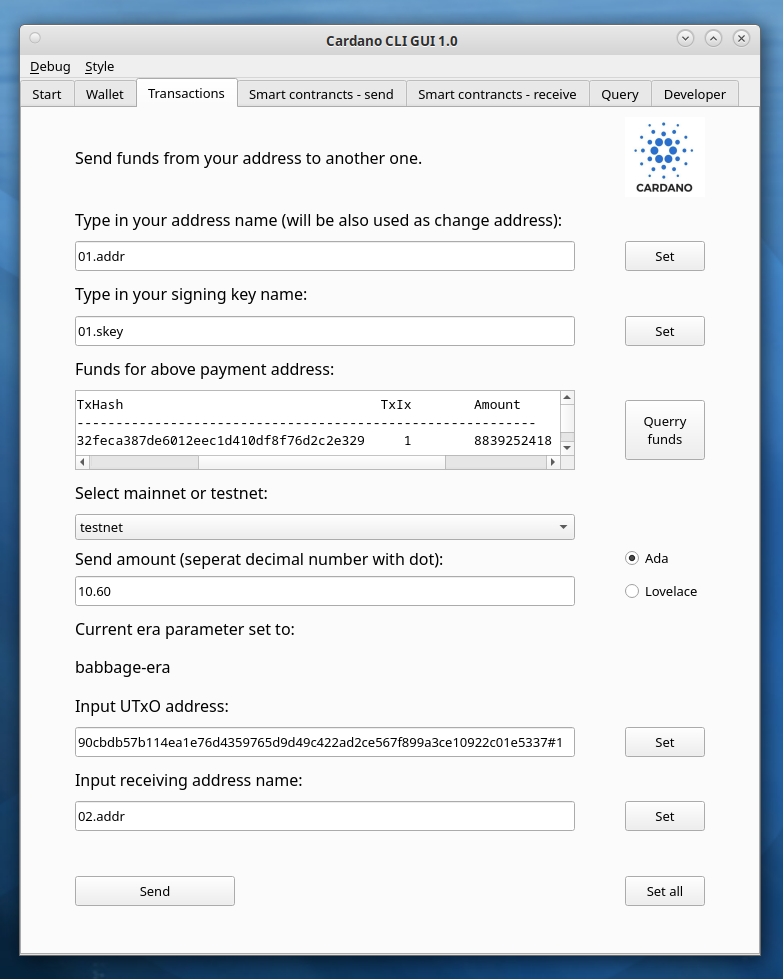
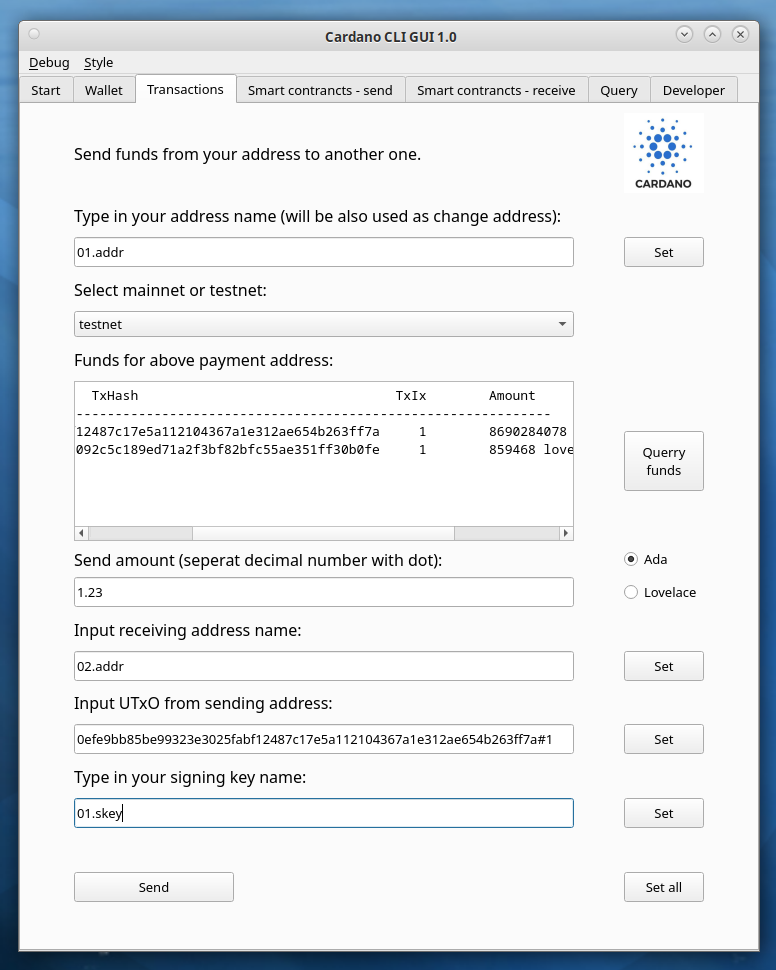
Updating transaction tab code and image. Small fix for query tab.

diff --git a/py-files/transactions.py b/py-files/transactions.py
@@ -39,65 +39,61 @@ class Transactions(QWidget):
         self.label_1_0 = QLabel("Type in your address name (will be also used as change address):")
         self.input_2_0 = QLineEdit()
         self.button_2_1 = QPushButton("Set")
-        self.label_3_0 = QLabel("Type in your signing key name:")
-        self.input_4_0 = QLineEdit()
-        self.button_4_1 = QPushButton("Set")
+        self.label_3_0 = QLabel("Select mainnet or testnet:")
+        self.comboBox_4_0 = QComboBox()
         self.label_5_0 = QLabel("Funds for above payment address:")
         self.input_6_0 = QPlainTextEdit()
         self.button_6_1 = QPushButton("Querry\nfunds")
-        self.label_7_0 = QLabel("Select mainnet or testnet:")
-        self.comboBox_8_0 = QComboBox()
 
         # Widget actions for payment address section
         self.button_2_1.clicked.connect(self.set_address_name)
-        self.button_4_1.clicked.connect(self.set_skey_name)
         self.button_6_1.clicked.connect(self.querry_address_funds)
-
-        self.comboBox_8_0.addItems(["", "mainnet", "testnet"])
-        self.comboBox_8_0.currentTextChanged.connect(self.set_net)
+        self.comboBox_4_0.addItems(["", "mainnet", "testnet"])
+        self.comboBox_4_0.currentTextChanged.connect(self.set_net)
 
         # Widgets for sending funds section 
-        self.label_9_0 = QLabel("Send amount (seperat decimal number with dot):")
-        self.radioButton_9_1 = QRadioButton("Ada")
+        self.label_7_0 = QLabel("Send amount (seperat decimal number with dot):")
+        self.radioButton_7_1 = QRadioButton("Ada")
+        self.input_8_0 = QLineEdit()
+        self.radioButton_8_1 = QRadioButton("Lovelace")
+        self.label_9_0 = QLabel("Input receiving address name:")
         self.input_10_0 = QLineEdit()
-        self.radioButton_10_1 = QRadioButton("Lovelace")
-        self.label_11_0 = QLabel("Current era parameter set to:")
-        self.label_12_0 = QLabel(settings.current_era)
-        self.label_13_0 = QLabel("Input UTxO address:")
+        self.button_10_1 = QPushButton("Set")
+        self.label_11_0 = QLabel("Input UTxO from sending address:")
+        self.input_12_0 = QLineEdit()
+        self.button_12_1 = QPushButton("Set")
+        self.label_13_0 = QLabel("Type in your signing key name:")
         self.input_14_0 = QLineEdit()
         self.button_14_1 = QPushButton("Set")
-        self.label_15_0 = QLabel("Input receiving address name:")
-        self.input_16_0 = QLineEdit()
-        self.button_16_1 = QPushButton("Set")
-        self.button_18_0 = QPushButton("Send")
-        self.button_18_1 = QPushButton("Set all")
+        self.button_16_0 = QPushButton("Send")
+        self.button_16_1 = QPushButton("Set all")
 
         # Widget actions for sending funds section 
-        self.button_14_1.clicked.connect(self.set_utxo)
-        self.button_16_1.clicked.connect(self.set_receiving_address)
-        self.button_18_0.clicked.connect(self.send_funds)
-        self.button_18_1.clicked.connect(self.set_all)
+        self.button_10_1.clicked.connect(self.set_receiving_address)
+        self.button_12_1.clicked.connect(self.set_utxo)
+        self.button_14_1.clicked.connect(self.set_skey_name)
+        self.button_16_0.clicked.connect(self.send_funds)
+        self.button_16_1.clicked.connect(self.set_all)
 
         # Set label fonts 
         labels = [self.label_0_0, self.label_1_0, 
                   self.label_3_0, self.label_5_0,
                   self.label_7_0, self.label_9_0, 
-                  self.label_11_0, self.label_12_0,
-                  self.label_13_0, self.label_15_0]
+                  self.label_11_0, self.label_13_0]
         for label in labels:
             font = label.font()
             font.setPointSize(12)
             label.setFont(font)
 
         # Set lineEdit sizes 
-        inputs = [self.input_2_0, self.input_4_0, 
-                  self.input_6_0, self.input_10_0,
-                  self.input_14_0, self.input_16_0]
+        inputs = [self.input_2_0, self.input_6_0, 
+                  self.input_8_0, self.input_10_0,
+                  self.input_12_0, self.input_14_0]
         for input in inputs:
             input.setFixedSize(500,30)
 
         # Set plainTextEdit properties
-        self.input_6_0.setFixedSize(500,80) 
+        self.input_6_0.setFixedSize(500,160) 
         consolas_font = QFont()
         consolas_font.setFamily("Consolas")
         self.input_6_0.setFont(consolas_font)
@@ -112,14 +108,14 @@ class Transactions(QWidget):
                          "--------------------------------------------------------------------------------------------"
         self.input_6_0.setPlainText(self.init_text)
 
-        # Set button sizes         
+        # Set button sizes      
         self.button_2_1.setFixedSize(80,30)
-        self.button_4_1.setFixedSize(80,30)
         self.button_6_1.setFixedSize(80,60)
+        self.button_10_1.setFixedSize(80,30)
+        self.button_12_1.setFixedSize(80,30)
         self.button_14_1.setFixedSize(80,30)
+        self.button_16_0.setFixedSize(160,30)
         self.button_16_1.setFixedSize(80,30)
-        self.button_18_0.setFixedSize(160,30)
-        self.button_18_1.setFixedSize(80,30)
 
         # Space between the sections
         self.emptyLabel = QLabel()
@@ -134,31 +130,27 @@ class Transactions(QWidget):
         layout.addWidget(self.input_2_0, 2, 0)
         layout.addWidget(self.button_2_1, 2, 1)
         layout.addWidget(self.label_3_0, 3, 0)
-        layout.addWidget(self.input_4_0, 4, 0)
-        layout.addWidget(self.button_4_1, 4, 1)
+        layout.addWidget(self.comboBox_4_0, 4, 0)
         layout.addWidget(self.label_5_0, 5, 0)
         layout.addWidget(self.input_6_0, 6, 0)
         layout.addWidget(self.button_6_1, 6, 1)
-        layout.addWidget(self.label_7_0, 7, 0)
-        layout.addWidget(self.comboBox_8_0, 8, 0)
-        layout.addWidget(self.emptyLabel, 7, 0)
-        layout.addWidget(self.emptyLabel, 8, 0)
         # Adding widgets for payment address section 
-        layout.addWidget(self.label_9_0, 9, 0)
-        layout.addWidget(self.radioButton_9_1, 9, 1)
-        layout.addWidget(self.input_10_0, 10, 0)
-        layout.addWidget(self.radioButton_10_1, 10, 1)
-        layout.addWidget(self.label_11_0, 11, 0)
-        layout.addWidget(self.label_12_0, 12, 0)
-        layout.addWidget(self.label_13_0, 13, 0)
-        layout.addWidget(self.input_14_0, 14, 0)
-        layout.addWidget(self.button_14_1, 14, 1)
-        layout.addWidget(self.label_15_0, 15, 0)
-        layout.addWidget(self.input_16_0, 16, 0)
-        layout.addWidget(self.button_16_1, 16, 1)
+        layout.addWidget(self.label_7_0, 9, 0)
+        layout.addWidget(self.radioButton_7_1, 9, 1)
+        layout.addWidget(self.input_8_0, 10, 0)
+        layout.addWidget(self.radioButton_8_1, 10, 1)
+        layout.addWidget(self.label_9_0, 11, 0)
+        layout.addWidget(self.input_10_0, 12, 0)
+        layout.addWidget(self.button_10_1, 12, 1)
+        layout.addWidget(self.label_11_0, 13, 0)
+        layout.addWidget(self.input_12_0, 14, 0)
+        layout.addWidget(self.button_12_1, 14, 1)
+        layout.addWidget(self.label_13_0, 15, 0)
+        layout.addWidget(self.input_14_0, 16, 0)
+        layout.addWidget(self.button_14_1, 16, 1)
         layout.addWidget(self.emptyLabel, 17, 0)
-        layout.addWidget(self.button_18_0, 18, 0)
-        layout.addWidget(self.button_18_1, 18, 1)
+        layout.addWidget(self.button_16_0, 18, 0)
+        layout.addWidget(self.button_16_1, 18, 1)
         layout.addWidget(self.emptyLabel, 19, 0)
 
         self.setLayout(layout)
@@ -187,28 +179,8 @@ class Transactions(QWidget):
         msg = "Address file successfully set."  
         QMessageBox.information(self, "Notification:", msg)
 
-    def set_skey_name(self):
-        skey_name = self.input_4_0.text()
-        skey_path = settings.folder_path + "/" + skey_name
-        skey_exists = os.path.isfile(skey_path)
-        
-        if not (".skey" in skey_name):
-            msg = "Signing key has to have a .skey file extension name.\n" + \
-                  "Please type in a file name with a .skey extension." 
-            QMessageBox.warning(self, "Notification:", msg,
-                                QMessageBox.Close)
-            return None
-
-        if not skey_exists:
-            msg = "Signing key file does not exists.\n" + \
-                  "Please enter a valid file name."  
-            QMessageBox.warning(self, "Notification:", msg,
-                                QMessageBox.Close) 
-            return None
-
-        self.skey_name = skey_name
-        msg = "Signing key file successfully set."  
-        QMessageBox.information(self, "Notification:", msg)
+    def set_net(self, selected_net):
+        self.net = selected_net 
 
     def querry_address_funds(self):
         if self.address == "":
@@ -234,7 +206,7 @@ class Transactions(QWidget):
                   net_part 
         
         if settings.debug_mode:
-            print("Command below is defined in py-files/transactions.py line 232:")
+            print("Command below is defined in py-files/transactions.py line 224:")
             print(common_functions.format_command(command) + "\n")
         else:
             try:
@@ -251,32 +223,8 @@ class Transactions(QWidget):
                 QMessageBox.warning(self, "Notification:", msg,
                                     QMessageBox.Close)
 
-    def set_net(self, selected_net):
-        self.net = selected_net 
-
-    def set_utxo(self):
-        utxo_input = self.input_14_0.text()
-        if not ("#" in utxo_input):
-            msg = "UTxO transaction input has to contain # sign and transaction index." + \
-                  "Please enter a valid transaction input." 
-            QMessageBox.warning(self, "Notification:", msg,
-                                QMessageBox.Close)
-            return None
-
-        trans_hash = utxo_input.split("#")[0]
-        if len(trans_hash) != 64:
-            msg = "UTxO transaction hash has to be 64 characters long." + \
-                  "Please enter a valid transaction hash." 
-            QMessageBox.warning(self, "Notification:", msg,
-                                QMessageBox.Close)
-            return None
-
-        self.utxo = utxo_input 
-        msg = "UTxO address successfully set." 
-        QMessageBox.information(self, "Notification:", msg)
-
     def set_receiving_address(self):
-        receiving_address_name = self.input_16_0.text()
+        receiving_address_name = self.input_10_0.text()
         receiving_address_path = settings.folder_path + "/" + receiving_address_name
         receiving_address_exists = os.path.isfile(receiving_address_path)
         
@@ -297,6 +245,50 @@ class Transactions(QWidget):
         with open(receiving_address_path, "r") as file:
             self.receiving_address = file.read()
         msg = "Receiving address file successfully set."  
+        QMessageBox.information(self, "Notification:", msg)
+
+    def set_utxo(self):
+        utxo_input = self.input_12_0.text()
+        if not ("#" in utxo_input):
+            msg = "UTxO transaction input has to contain # sign and transaction index." + \
+                  "Please enter a valid transaction input." 
+            QMessageBox.warning(self, "Notification:", msg,
+                                QMessageBox.Close)
+            return None
+
+        trans_hash = utxo_input.split("#")[0]
+        if len(trans_hash) != 64:
+            msg = "UTxO transaction hash has to be 64 characters long." + \
+                  "Please enter a valid transaction hash." 
+            QMessageBox.warning(self, "Notification:", msg,
+                                QMessageBox.Close)
+            return None
+
+        self.utxo = utxo_input 
+        msg = "UTxO address successfully set." 
+        QMessageBox.information(self, "Notification:", msg)
+
+    def set_skey_name(self):
+        skey_name = self.input_14_0.text()
+        skey_path = settings.folder_path + "/" + skey_name
+        skey_exists = os.path.isfile(skey_path)
+        
+        if not (".skey" in skey_name):
+            msg = "Signing key has to have a .skey file extension name.\n" + \
+                  "Please type in a file name with a .skey extension." 
+            QMessageBox.warning(self, "Notification:", msg,
+                                QMessageBox.Close)
+            return None
+
+        if not skey_exists:
+            msg = "Signing key file does not exists.\n" + \
+                  "Please enter a valid file name."  
+            QMessageBox.warning(self, "Notification:", msg,
+                                QMessageBox.Close) 
+            return None
+
+        self.skey_name = skey_name
+        msg = "Signing key file successfully set."  
         QMessageBox.information(self, "Notification:", msg)
 
     def set_all(self):
@@ -324,8 +316,8 @@ class Transactions(QWidget):
                                 QMessageBox.Close)
             return None
 
-        is_ada = self.radioButton_9_1.isChecked()
-        is_lovelace = self.radioButton_10_1.isChecked()
+        is_ada = self.radioButton_7_1.isChecked()
+        is_lovelace = self.radioButton_8_1.isChecked() 
 
         if (not is_ada) and (not is_lovelace):
             msg = "Select option ada or lovelace."    
@@ -338,10 +330,10 @@ class Transactions(QWidget):
         elif is_lovelace: 
             currency = "Lovelace"
         
-        amount_text = self.input_10_0.text() 
+        amount_text = self.input_8_0.text() 
         amount_in_lovelace = common_functions.parse_amount(amount_text, currency)
 
-        if amount_in_lovelace == -1:
+        if amount_in_lovelace == -1: 
             msg = "The specified amount in " + currency + " is not a valid input.\n" + \
                   "Amount in ADA can have max 6 decimal numbers.\n" + \
                   "Spaces and characters are not allowed." 
@@ -412,9 +404,9 @@ class Transactions(QWidget):
         msg_sign = "Transaction sign command failed.\n" + msg_common
         msg_submit = "Transaction submit command failed.\n" + msg_common
 
-        debug_msg_build = "Command below is defined in py-files/transactions.py line 386:"
-        debug_msg_sign = "Command below is defined in py-files/transactions.py line 399:"
-        debug_msg_submit = "Command below is defined in py-files/transactions.py line 405:" 
+        debug_msg_build = "Command below is defined in py-files/transactions.py line 378:"
+        debug_msg_sign = "Command below is defined in py-files/transactions.py line 391:"
+        debug_msg_submit = "Command below is defined in py-files/transactions.py line 397:" 
                     
         manage_command(command_build_processed, msg_build, debug_msg_build)
         time.sleep(1)

diff --git a/py-files/query.py b/py-files/query.py
@@ -20,8 +20,7 @@ class Query(QWidget):
         self.address = ""
 
         # Header text 
-        self.label_0_0 = QLabel("Query the blockchain for parameters and funds.\n" + \
-                                "Generate protocol parameter file for an anddress.")
+        self.label_0_0 = QLabel("Query the blockchain for funds and parameters.")
 
         # Cardano picture
         picture_0_1 = QLabel("")
